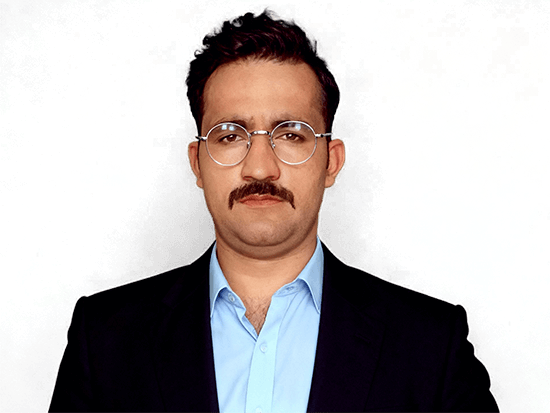
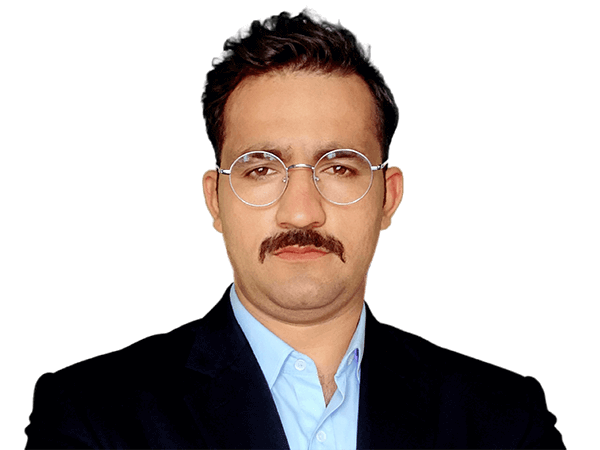
I add whatapp button and functioality

Changed region(s): [[0.1236, 0.0, 0.9582, 1.0], [0.0309, 0.8136, 0.1236, 1.0]]

diff --git a/src/components/SiteLayout.jsx b/src/components/SiteLayout.jsx
@@ -1,6 +1,7 @@
 'use client';
 
 import { Toaster } from 'sonner';
+import { FaWhatsapp } from 'react-icons/fa';
 import { usePathname } from 'next/navigation';
 import { AppProviders } from '@/hooks/providers.js';
 import SiteHeader from '../components/SiteHeader.jsx';
@@ -19,6 +20,15 @@ export default function SiteLayout({ children }) {
 
       <Toaster position="top-right" expand={true} closeButton richColors />
       <GoogleAnalytics trackPageViews gaMeasurementId="G-L9P3J53N1Q" />
+
+      <a
+        href="https://wa.me/923038965727"
+        className="fixed bottom-6 right-6 z-50 bg-green-500 text-white p-3 rounded-full shadow-lg animate-ripple hover:scale-110 transition-transform duration-300"
+        target="_blank"
+        rel="noopener noreferrer"
+      >
+        <FaWhatsapp size={26} />
+      </a>
     </AppProviders>
   );
 }

diff --git a/src/app/page.jsx b/src/app/page.jsx
@@ -19,7 +19,12 @@ export default function HomePage() {
             {/* ─── Hero Image */}
             <div className="hero-image flex-center relative overflow-hidden rounded-full aspect-square p-[3px] 3xl:p-[3.5px] 6xl:p-[4px]  w-[88%] 3xl:w-full max-w-[315px] 3xl:max-w-[350px] 6xl:max-w-[380px]">
               <div className="bg-primary flex-center overflow-hidden rounded-full size-full transition-500 z-10">
-                <Image src="/nawaz.png" alt="nawaz profile" fill className="transform translate-y-5 object-cover" />
+                <Image
+                  src="/nawaz.png"
+                  alt="nawaz profile"
+                  fill
+                  className="transform translate-y-5 object-cover scale-90"
+                />
               </div>
             </div>
 

diff --git a/src/app/utilities.css b/src/app/utilities.css
@@ -125,6 +125,22 @@
   }
 }
 
+/* ──────────────────────── Whatapp Button Animation. */
+@keyframes ripple {
+  0% {
+    box-shadow: 0 0 0 0 rgba(16, 185, 129, 0.4);
+  }
+  70% {
+    box-shadow: 0 0 0 20px rgba(16, 185, 129, 0);
+  }
+  100% {
+    box-shadow: 0 0 0 0 rgba(16, 185, 129, 0);
+  }
+}
+.animate-ripple {
+  animation: ripple 2s infinite;
+}
+
 /* ──────────────────────── Mercury Driping Animation. */
 @keyframes mercury-drip {
   0% {

diff --git a/src/components/contact/MainPage.jsx b/src/components/contact/MainPage.jsx
@@ -155,7 +155,7 @@ export default function MainPageUI() {
             </div>
             <div>
               <h3 className="font-nunito font-bold text-secondary">Response Time</h3>
-              <p className="text-tertiary">Usually within 2-4 hours</p>
+              <p className="text-tertiary">Usually within 1 hours</p>
             </div>
           </div>
 
